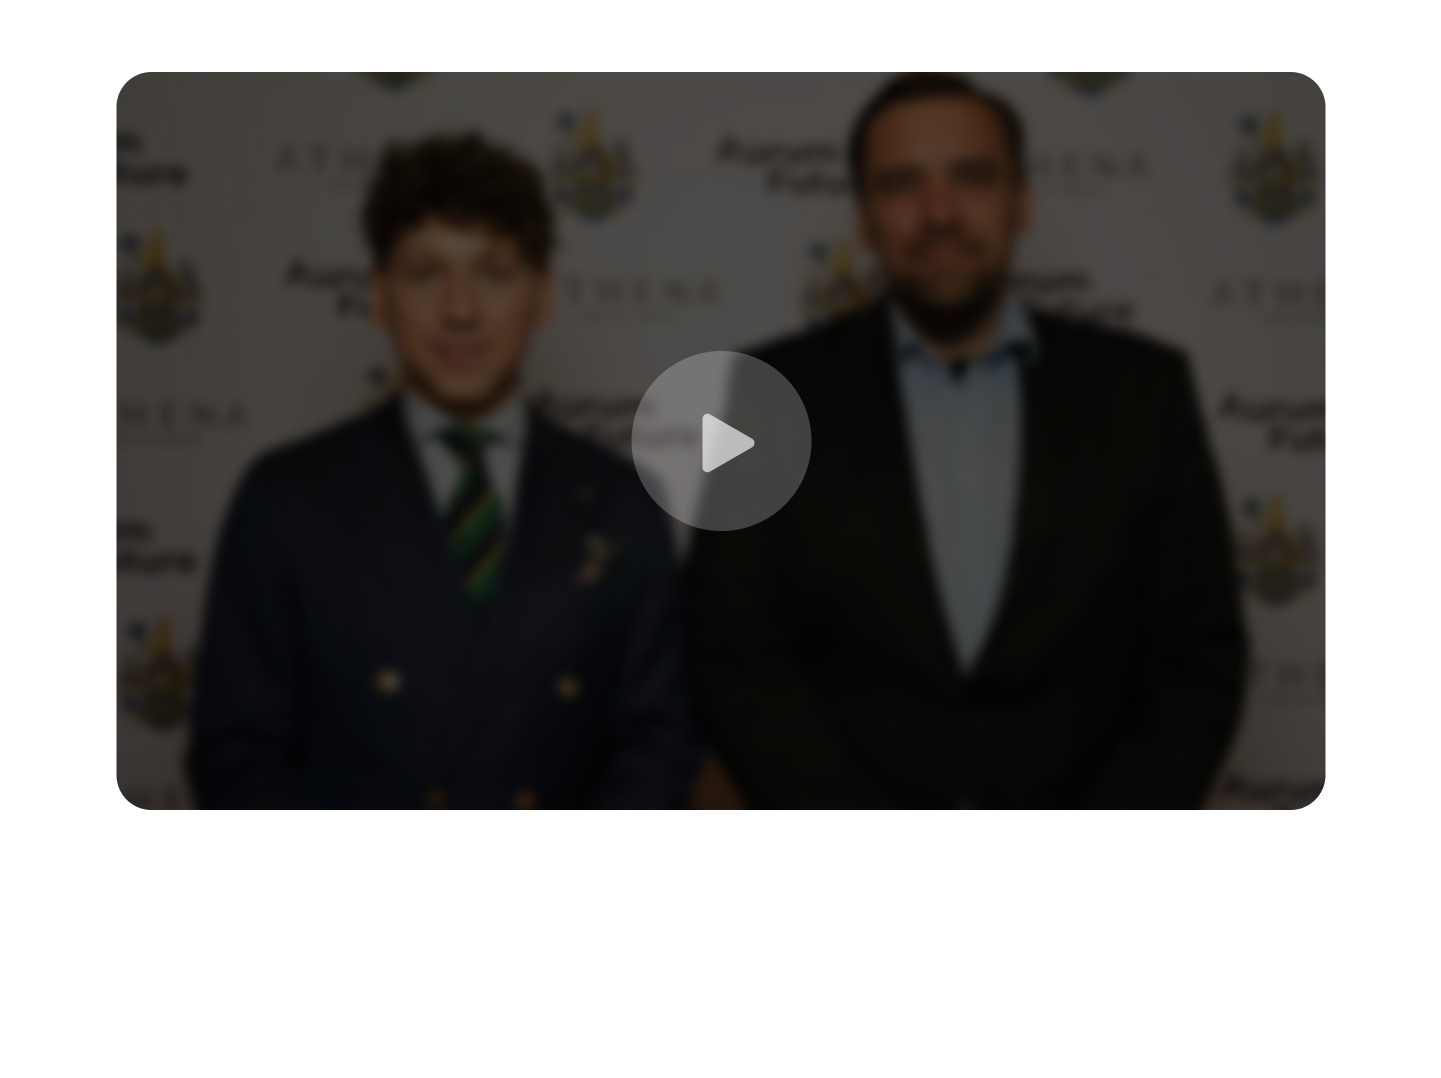
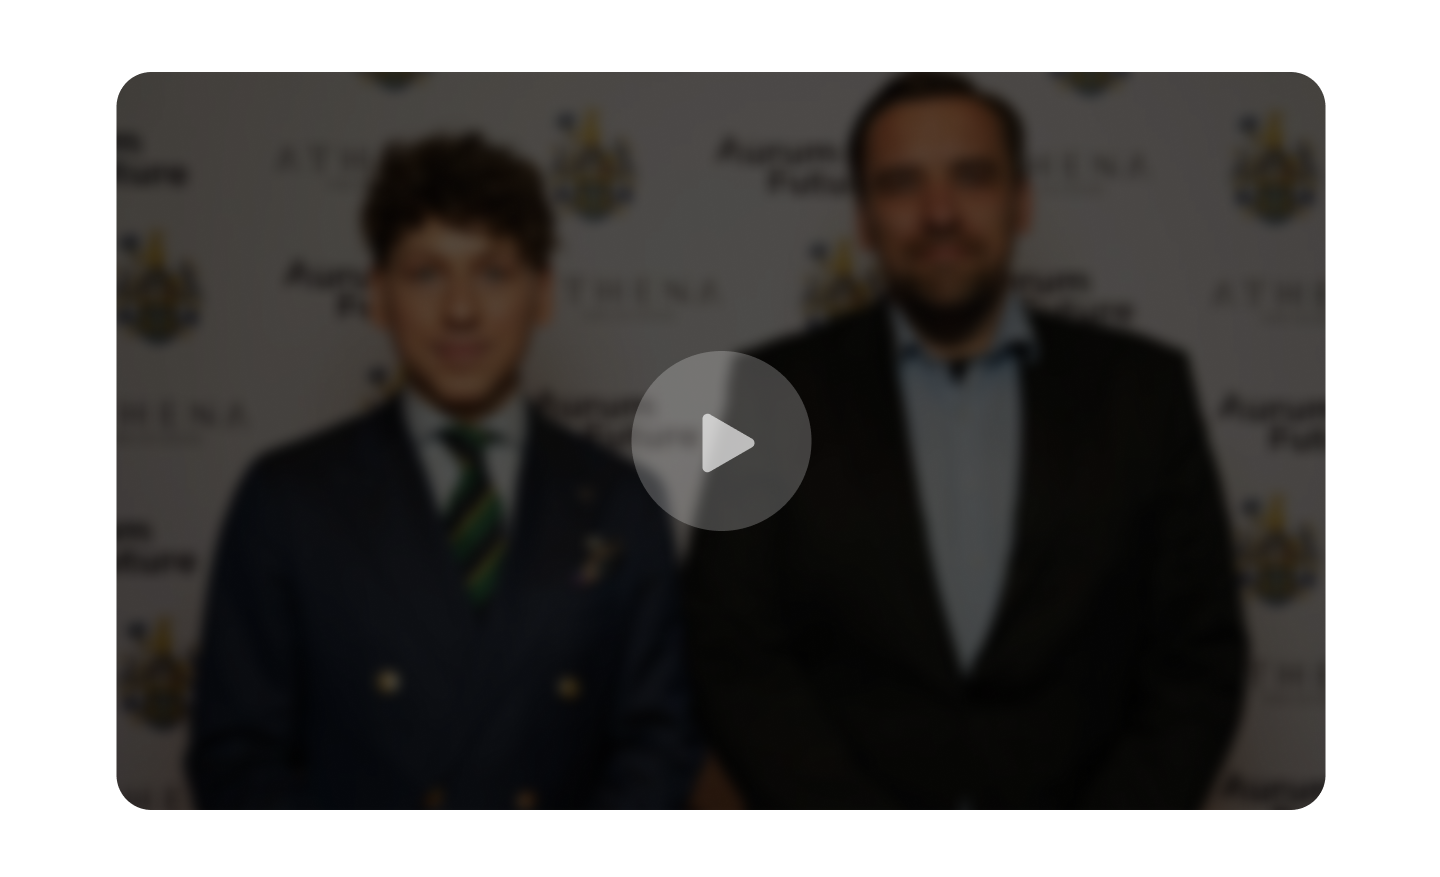
Video: trimmed white border from PNG, full content width, no drop-shadow box

diff --git a/styles.css b/styles.css
@@ -513,18 +513,16 @@ h1, h2, h3, h4, p { margin: 0; }
 .video-intro__frame {
   position: relative;
   width: 100%;
-  max-width: 1209px;
-  aspect-ratio: 1209 / 738;
+  max-width: var(--max-w);
+  aspect-ratio: 1440 / 877;
   background: transparent;
   border: 0;
   cursor: pointer;
   padding: 0;
-  filter: drop-shadow(0 8px 40px rgba(0, 0, 0, 0.12));
-  transition: transform 0.2s ease, filter 0.2s ease;
+  transition: transform 0.2s ease;
 }
 .video-intro__frame:hover {
   transform: translateY(-2px);
-  filter: drop-shadow(0 14px 50px rgba(0, 0, 0, 0.18));
 }
 .video-intro__poster {
   width: 100%;
